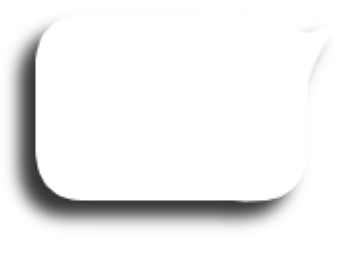
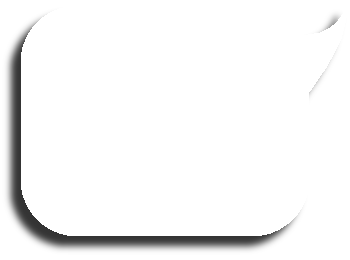
nightly build 08-01-2008

diff --git a/index.html b/index.html
@@ -22,6 +22,7 @@
         <script src="lib/jquery/jquery.ui-1.5.2/ui/minified/ui.accordion.min.js" type="text/javascript"></script>
         <script src="lib/jquery/jquery.ui-1.5.2/ui/minified/ui.datepicker.min.js" type="text/javascript"></script>
         <script src="lib/jquery/jquery-tooltip/jquery.tooltip.min.js" type="text/javascript"></script>
+        <script src="lib/jquery/jquery-corners/jquery.corner.js" type="text/javascript"></script>
         <link rel="stylesheet" href="lib/jquery/jquery.ui-1.5.2/themes/ui.datepicker.css" type="text/css">
         
         <!-- date.js -->
@@ -93,7 +94,7 @@
                 
                  <!-- Recent Updates -->
                 <div class='notes' style="height:400px">
-                   <strong style="text-decoration: underline; font-size:130%; margin-bottom:10px; ">Recent Updates</strong><br><br>
+                    <strong style="text-decoration: underline; font-size:130%; margin-bottom:10px; ">Recent Updates</strong><br><br>
                     <strong>07/31/2008</strong><p>Enhanced event markers. Cleaner tooltip graphics.</p><br><br>
                     <strong>07/30/2008</strong><p>Bug fixes (launchpad #251905, #252575). Improved performance on Internet Explorer.</p><br><br>
                     <strong>07/21/2008</strong><p>Events re-enabled.</p><br><br>

diff --git a/lib/helioviewer/Viewport.js b/lib/helioviewer/Viewport.js
@@ -32,7 +32,7 @@ var Viewport = Class.create(UIElement, {
         Event.observe(this.movingContainer, 'dblclick', function (e) {
             
             //check to make sure that you are not already at the minimum/maximum zoom-level
-            if ((self.zoomLevel > self.controller.minZoomLevel) && (self.zoomLevel < self.controller.maxZoomLevel)) {
+            if ((e.shiftKey || (self.zoomLevel > self.controller.minZoomLevel)) && (self.zoomLevel < self.controller.maxZoomLevel)) {
                 if (e.isLeftClick()) {
                     //Compute offset from top-left of browser viewport
                     var xOffset = $('left-col').getDimensions().width + Math.round(0.03 * self.outerNode.getDimensions().width) + 2;
@@ -53,7 +53,9 @@ var Viewport = Class.create(UIElement, {
                     //Initiate zoom
                     e.shiftKey ? self.controller.zoomControl.zoomButtonClicked(1) : self.controller.zoomControl.zoomButtonClicked(-1);
                 }         
-            }   
+            } else {
+                Debug.output("Out of bounds double-click request! See Viewport.js:57");                
+            }
         });
         this.resize();
     },

diff --git a/getLayerAvailability.php b/getLayerAvailability.php
@@ -1,0 +1,23 @@
+<?php
+require('phpClasses/autoload.php');
+$dbConnection = new DbConnection();
+
+//return format
+$return = $_GET['type'];
+
+//master array
+$observatories = array();
+
+//query observatories
+$query = "SELECT name FROM observatory";
+$result = $dbConnection->query($query);
+while ($row = mysql_fetch_array($result, MYSQL_ASSOC)) {
+    array_push($observatories, $row["name"]);
+}
+
+if ($return == "json") {
+    //header("Content-type: application/json");
+    echo json_encode($observatories);
+}
+
+?>
